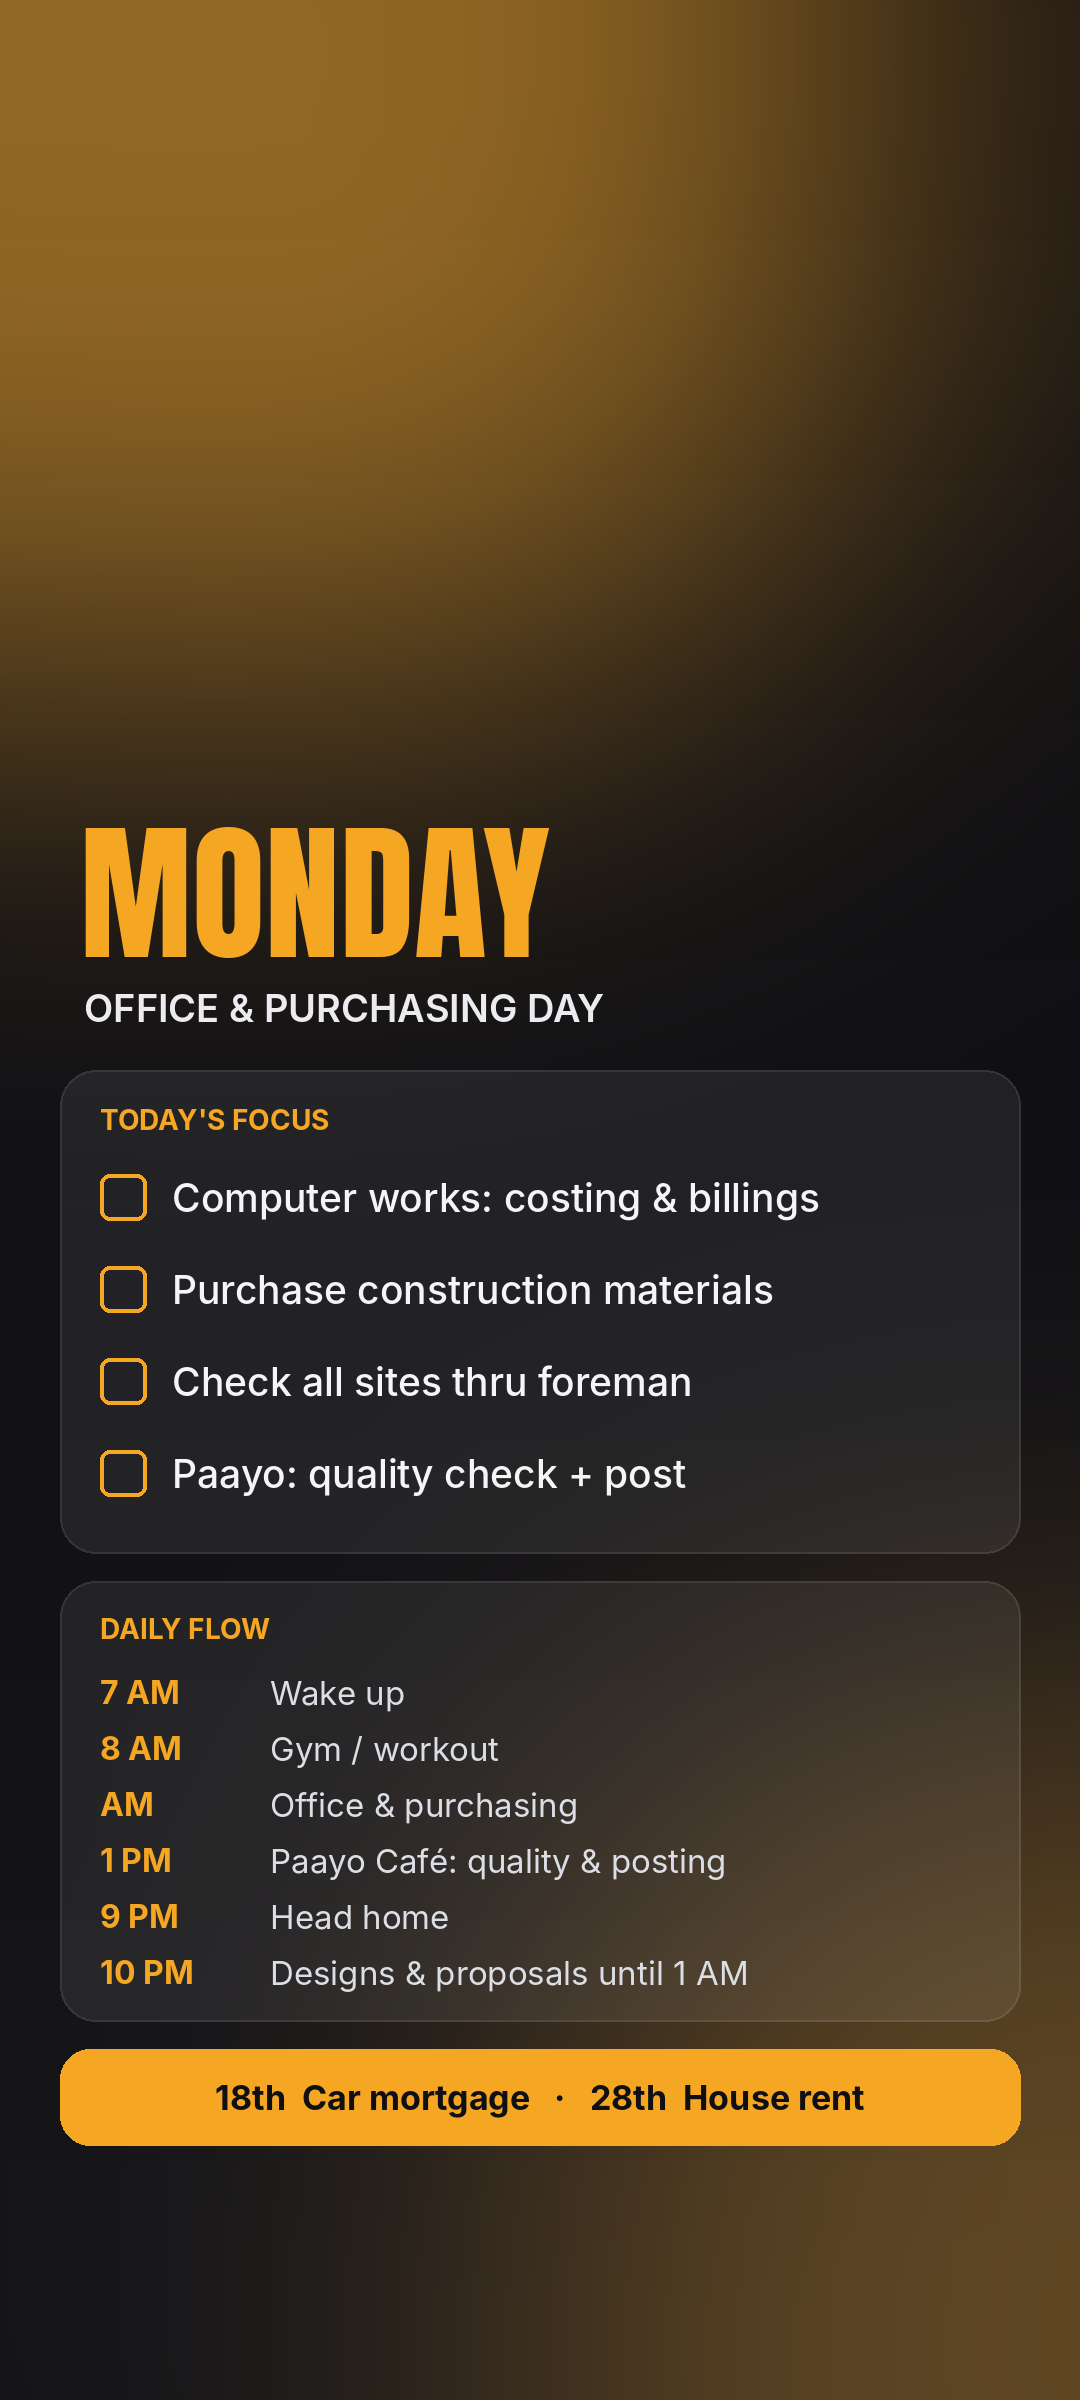
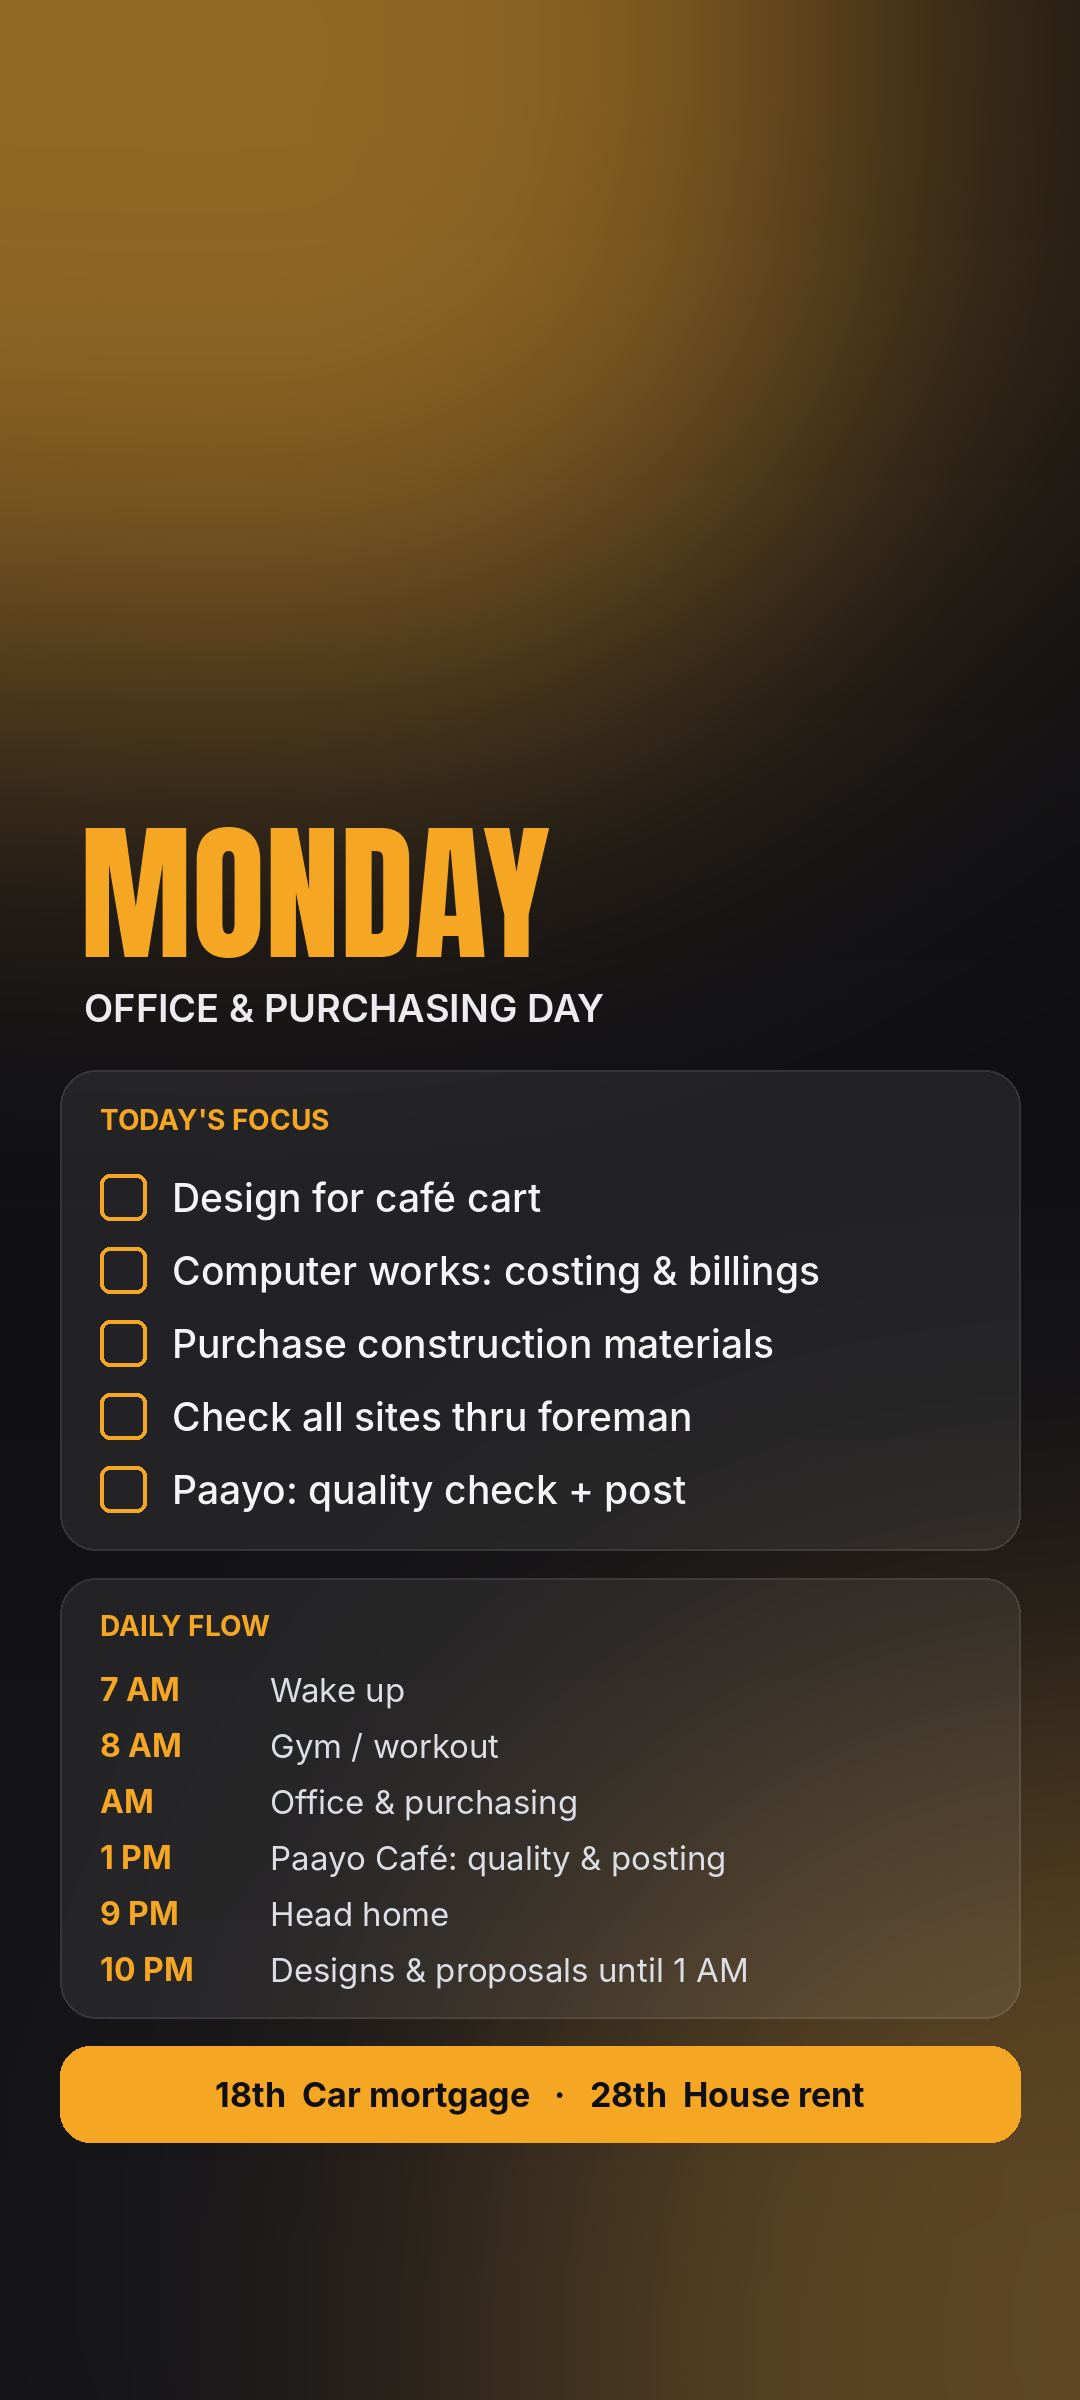
Show 'Design for café cart' every day until done
Claude-Session: https://claude.ai/code/session_01X6GduKh7ksH3XkzsjMMwK9

diff --git a/generator.py b/generator.py
@@ -12,7 +12,8 @@ def anton(size): return ImageFont.truetype(ANTON, size)
 import json, sys
 SITE = sys.argv[1] if len(sys.argv) > 1 else "."
 DATA = json.load(open(SITE + "/todos.json"))
-DAYS = [(d["day"], d["subtitle"], d["accent"], d["focus"], d["am"]) for d in DATA["days"]]
+EVERYDAY = DATA.get("everyday", [])  # carry-over tasks shown on every day until done
+DAYS = [(d["day"], d["subtitle"], d["accent"], EVERYDAY + d["focus"], d["am"]) for d in DATA["days"]]
 OUT = SITE
 
 def hexrgb(h): h = h.lstrip("#"); return tuple(int(h[i:i+2], 16) for i in (0, 2, 4))

diff --git a/README.md b/README.md
@@ -5,3 +5,6 @@ Daily to-do lock-screen wallpapers (one per weekday), shown on CK's phone each m
 - `todos.json`: the to-do list (edit this)
 - `generator.py`: run `python3 generator.py .` to rebuild `Monday.png` … `Sunday.png`
 - Phone link: https://ck-daily-board-7q4x.netlify.app/today.png (serves today's image from this repo, Manila time)
+
+## Every-day tasks
+`"everyday"` in `todos.json` lists carry-over tasks shown at the top of every day's image until CK says "done <task>"; then remove it from that list.
